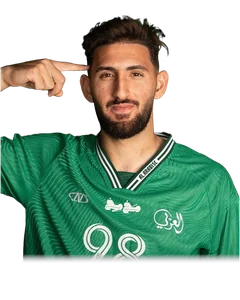
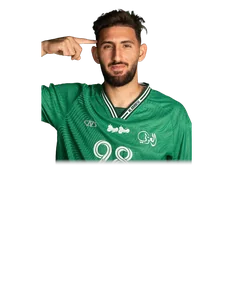
المساهمون: تسمية القسم بدل «الهدافون»؛ المنصّة: تكبير موحّد 1.55 لكل القصّات فيظهر الثلاثة بحجم واحد، إزالة شعار النادي الجانبي وإبقاء الشعار الشفاف؛ زيد قنبر بالإطار القياسي — sw mf-2026-09-15-28

diff --git a/index.html b/index.html
@@ -187,10 +187,11 @@ tbody tr.rel{box-shadow:inset 3px 0 0 rgba(224,100,79,.7)}
 .ts-pod{overflow:hidden}
 .ts-pod-bg{position:absolute;left:50%;top:42%;width:150%;max-width:none;transform:translate(-50%,-50%);opacity:.07;pointer-events:none;filter:grayscale(.2)}
 .ts-pod>*:not(.ts-pod-bg){position:relative;z-index:1}
-.ts-pod-av{position:relative;width:150px;height:188px;margin:0 0 8px}
+.ts-pod-av{position:relative;width:150px;height:188px;margin:0 0 8px;overflow:hidden;border-radius:10px}
 .ts-pod.first .ts-pod-av{width:196px;height:245px}
-.ts-pod-img{width:100%;height:100%;object-fit:contain;object-position:bottom;filter:drop-shadow(0 4px 6px rgba(0,0,0,.3))}
-.ts-pod-img.ts-crestfb{padding:14px;filter:none}
+/* كل القصّات بإطار موحّد (الوجه 190 من 1000 عند 85) → تكبير موحّد 1.55 من الأعلى فيظهر الثلاثة بحجم واحد وتُقصّ الخصور بحد الصندوق */
+.ts-pod-img{width:100%;height:100%;object-fit:contain;object-position:top;transform:scale(1.55);transform-origin:top center;filter:drop-shadow(0 4px 6px rgba(0,0,0,.3))}
+.ts-pod-img.ts-crestfb{padding:14px;filter:none;transform:none}
 .ts-pod-crest{position:absolute;bottom:6px;left:2px;width:34px;height:34px;background:#fff;border:1px solid var(--line);border-radius:50%;padding:3px;display:grid;place-items:center}
 .ts-pod-crest img{width:100%;height:100%;object-fit:contain}
 .ts-pod-info{width:100%;min-width:0}
@@ -5973,7 +5974,7 @@ function topScorersHTML(){
   const podCard=(p,i)=>`<div class="ts-pod${i===0?" first":""} ${medal(p.rk)}" data-player="${esc(p.n)}" data-club="${esc(p.c)}" role="button" tabindex="0">
       ${LOGOS[p.c]?`<img class="ts-pod-bg" src="${LOGOS[p.c]}" alt="" aria-hidden="true">`:""}
       <span class="ts-badge">${p.rk}</span>
-      <div class="ts-pod-av">${av(p,"ts-pod-img",true)}${(cut(p)&&LOGOS[p.c])?`<span class="ts-pod-crest"><img src="${LOGOS[p.c]}" alt=""></span>`:""}</div>
+      <div class="ts-pod-av">${av(p,"ts-pod-img",true)}</div>
       <div class="ts-pod-info"><div class="ts-pod-nm">${esc(p.n)}</div><div class="ts-pod-club">${esc(p.c)}</div></div>
       <div class="ts-pod-stat"><b>${p[key]}</b><small>${label}</small></div></div>`;
   const podium = L.length>=3 ? `<div class="ts-podium">${L.slice(0,3).map(podCard).join("")}</div>` : "";
@@ -6033,7 +6034,7 @@ function renderPlayers(){
   const DL=Object.values(disc).sort((a,b)=>b.r-a.r||b.y-a.y);
   $("#v-players").innerHTML=`
     ${compChips()}
-    <h2 class="sec">الهدافون</h2>
+    <h2 class="sec">المساهمون</h2>
     ${topScorersHTML()}
     ${(()=>{ const PP=playerPlay();
       const byMin=[...PP].sort((a,b)=>b.mins-a.mins);

diff --git a/site-i18n.js b/site-i18n.js
@@ -110,7 +110,7 @@ const I18N = {
     'تشكيلة الجولة':'Round line-up', 'لم تُرصد تشكيلة أساسية لهذا النادي بعد.':'No starting line-up recorded for this club yet.', 'خارج أرضه':'Away', 'على أرضه':'Home', '⟨x⟩ أمام ⟨x⟩':'⟨x⟩ v ⟨x⟩',
     'حارس':'GK', 'مدافع':'DEF', 'وسط':'MID', 'مهاجم':'FWD', 'حراسة':'Goalkeeping', 'دفاع':'Defence', 'هجوم':'Attack',
     // اللاعبون
-    'الهدافون':'Top scorers', 'صنّاع الأهداف':'Assists', 'صناعة':'Assist', 'الشباك النظيفة (الحرّاس)':'Clean sheets (goalkeepers)',
+    'الهدافون':'Top scorers', 'المساهمون':'Contributors', 'صنّاع الأهداف':'Assists', 'صناعة':'Assist', 'الشباك النظيفة (الحرّاس)':'Clean sheets (goalkeepers)',
     'حرّاس المرمى الذين لعبوا 60 دقيقة فأكثر في مباريات لم يستقبل فيها فريقهم هدفاً.':'Goalkeepers who played 60 minutes or more in matches where their team did not concede.',
     'دقائق اللعب':'Minutes played', 'إجمالي دقائق كل لاعب من التشكيلات والتبديلات. اضغط رأس المباريات للترتيب الذهني.':"Each player's total minutes from line-ups and substitutions.",
     'لا توجد بيانات إنذارات بعد. أضف ورقة «سجل الإنذارات» في ملف الاستوديو بالأعمدة: الجولة · المسابقة · النادي · اللاعب · الدقيقة · النوع.':'No card data yet. Add the "Cards log" sheet to the studio file with the columns: Round · Competition · Club · Player · Minute · Type.',

diff --git a/sw.js b/sw.js
@@ -9,7 +9,7 @@
 
    عند كل نشر: ارفع رقم VER فتُبنى ذاكرة جديدة وتُحذف القديمة.
    ========================================================= */
-const VER   = 'mf-2026-09-15-27';
+const VER   = 'mf-2026-09-15-28';
 const SHELL = 'shell-' + VER;
 const RUN   = 'run-'   + VER;
 
